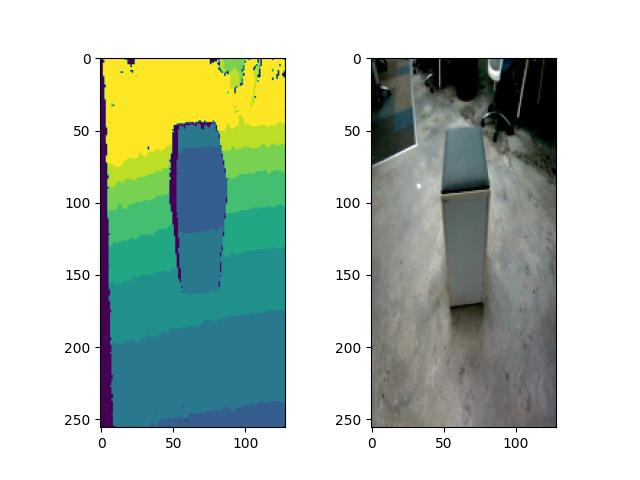
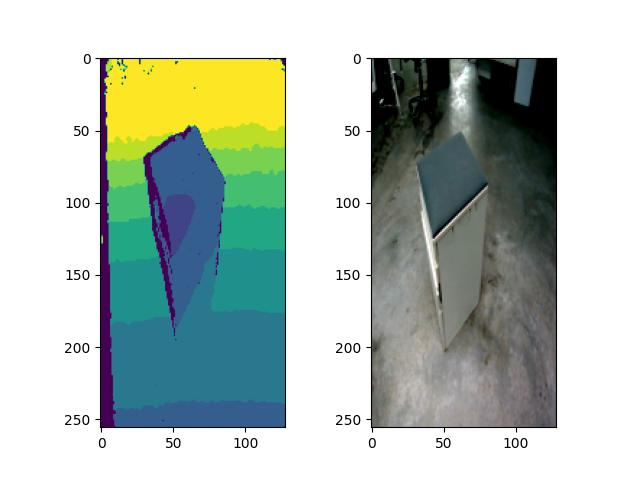
test_depth_pretrained

diff --git a/model/make_model.py b/model/make_model.py
@@ -587,8 +587,8 @@ class build_FourDNet(nn.Module):
 
 
         # loading the pretrained modalities
-        self.load_rgb_pretrained()
-        # self.load_depth_pretrained()
+        # self.load_rgb_pretrained()
+        self.load_depth_pretrained()
 
 
     def load_rgb_pretrained(self):
@@ -704,54 +704,54 @@ class build_FourDNet(nn.Module):
         v_d = self.V_d(local_cat_global_depth.to(self.d2d_gpu))
 
 
-        """R2R Self Attention"""
-        # selecting key positions and their attention weights
-        selector_outputs = self.r2r_selector(q_r)
-        attention_scores = self.r2r_attn_weights(q_r)
-        locations_x = selector_outputs[:, :, 0 : self.r2r_m * self.r2r_k]
-        locations_y = selector_outputs[:, :, self.r2r_m * self.r2r_k :] 
-
-
-        # performing sampling of the value feature map at the given locations
-        v = v_r.permute(0, 2, 1).reshape(B, self.reduced_dim, 16, 8)
-        grid = torch.stack((locations_x, locations_y), -1)
-        grid = grid * 2 - 1
-        interpolated_feat = F.grid_sample(v, grid, align_corners=True).permute(0, 2, 3, 1)
-
-
-        # performing weighted sum of values
-        r2r_feat = torch.sum(interpolated_feat * attention_scores.unsqueeze(-1), dim=-2) 
-        r2r_feat = self.r2r_ffn(r2r_feat)
-
-
-        # adding back to the RGB path
-        local_cat_global_rgb = local_cat_global_rgb + r2r_feat.to(self.gpu0)
-        local_cat_global_rgb = self.r2r_norm(local_cat_global_rgb)
-
-
-        # """D2D Self Attention"""
+        # """R2R Self Attention"""
         # # selecting key positions and their attention weights
-        # selector_outputs = self.d2d_selector(q_d)
-        # attention_scores = self.d2d_attn_weights(q_d)
-        # locations_x = selector_outputs[:, :, : self.d2d_m * self.d2d_k]
-        # locations_y = selector_outputs[:, :, self.d2d_m * self.d2d_k :] 
+        # selector_outputs = self.r2r_selector(q_r)
+        # attention_scores = self.r2r_attn_weights(q_r)
+        # locations_x = selector_outputs[:, :, 0 : self.r2r_m * self.r2r_k]
+        # locations_y = selector_outputs[:, :, self.r2r_m * self.r2r_k :] 
 
 
         # # performing sampling of the value feature map at the given locations
-        # v = v_d.permute(0, 2, 1).reshape(B, self.reduced_dim, 16, 8)
+        # v = v_r.permute(0, 2, 1).reshape(B, self.reduced_dim, 16, 8)
         # grid = torch.stack((locations_x, locations_y), -1)
         # grid = grid * 2 - 1
         # interpolated_feat = F.grid_sample(v, grid, align_corners=True).permute(0, 2, 3, 1)
 
 
         # # performing weighted sum of values
-        # d2d_feat = torch.sum(interpolated_feat * attention_scores.unsqueeze(-1), dim=-2) 
-        # d2d_feat = self.d2d_ffn(d2d_feat)
+        # r2r_feat = torch.sum(interpolated_feat * attention_scores.unsqueeze(-1), dim=-2) 
+        # r2r_feat = self.r2r_ffn(r2r_feat)
 
 
-        # # adding back to the depth path
-        # local_cat_global_depth = local_cat_global_depth + d2d_feat.to(self.gpu1)
-        # local_cat_global_depth = self.d2d_norm(local_cat_global_depth)
+        # # adding back to the RGB path
+        # local_cat_global_rgb = local_cat_global_rgb + r2r_feat.to(self.gpu0)
+        # local_cat_global_rgb = self.r2r_norm(local_cat_global_rgb)
+
+
+        """D2D Self Attention"""
+        # selecting key positions and their attention weights
+        selector_outputs = self.d2d_selector(q_d)
+        attention_scores = self.d2d_attn_weights(q_d)
+        locations_x = selector_outputs[:, :, : self.d2d_m * self.d2d_k]
+        locations_y = selector_outputs[:, :, self.d2d_m * self.d2d_k :] 
+
+
+        # performing sampling of the value feature map at the given locations
+        v = v_d.permute(0, 2, 1).reshape(B, self.reduced_dim, 16, 8)
+        grid = torch.stack((locations_x, locations_y), -1)
+        grid = grid * 2 - 1
+        interpolated_feat = F.grid_sample(v, grid, align_corners=True).permute(0, 2, 3, 1)
+
+
+        # performing weighted sum of values
+        d2d_feat = torch.sum(interpolated_feat * attention_scores.unsqueeze(-1), dim=-2) 
+        d2d_feat = self.d2d_ffn(d2d_feat)
+
+
+        # adding back to the depth path
+        local_cat_global_depth = local_cat_global_depth + d2d_feat.to(self.gpu1)
+        local_cat_global_depth = self.d2d_norm(local_cat_global_depth)
 
 
         # """D2R Cross Attention"""
@@ -811,8 +811,8 @@ class build_FourDNet(nn.Module):
 
 
         # final_embedding = local_cat_global_depth.to(self.target_gpu) * depth_filter.reshape(B, 128).unsqueeze(-1).to(self.target_gpu) + local_cat_global_rgb.to(self.target_gpu) * rgb_filter.reshape(B, 128).unsqueeze(-1).to(self.target_gpu)
-        final_embedding = local_cat_global_rgb.to(self.target_gpu) 
-        # final_embedding = local_cat_global_depth.to(self.target_gpu) 
+        # final_embedding = local_cat_global_rgb.to(self.target_gpu) 
+        final_embedding = local_cat_global_depth.to(self.target_gpu) 
         final_embedding = torch.mean(final_embedding, dim=-2)
 
         # compute the cls scores and return

diff --git a/processor/processor_depth.py b/processor/processor_depth.py
@@ -16,7 +16,7 @@ import shutil
 WANDB = True
 EMBEDDING_DIM = 128
 NUM_INSTANCES = 12
-EXPERIMENT_NAME = "test_rgb_pretrained" 
+EXPERIMENT_NAME = "test_depth_pretrained" 
 PROJECT_NAME = "Experiments_Full2"
 
 def do_train_4DNet(cfg,
